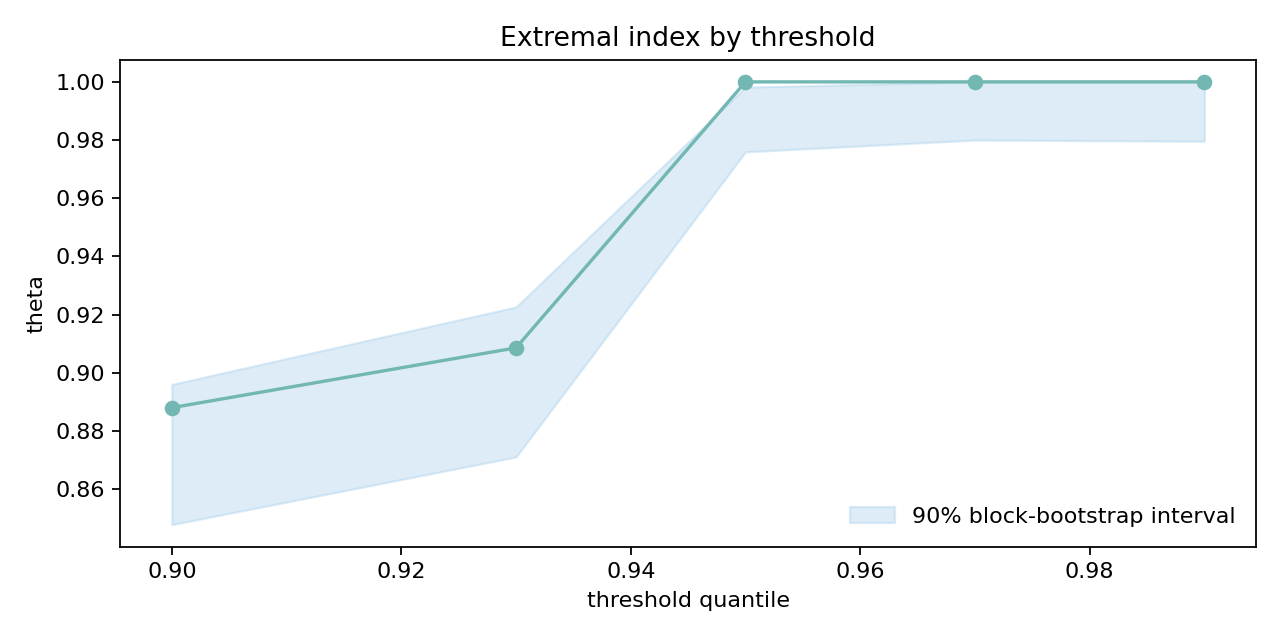
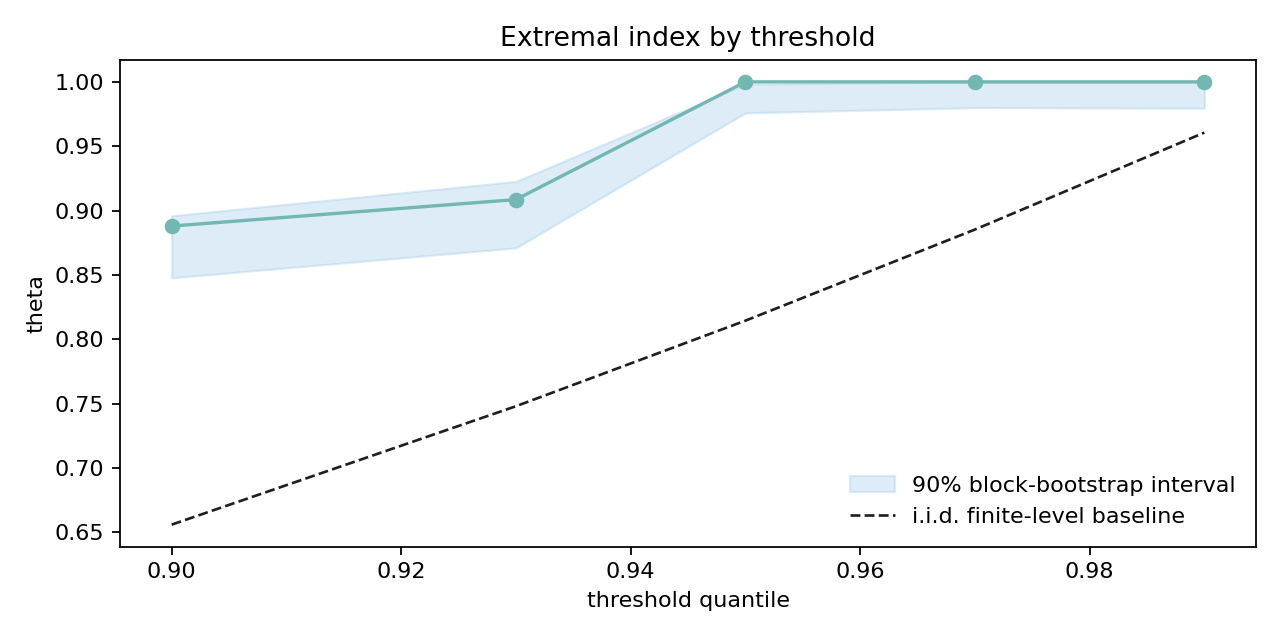
Add independence baselines to recurrence scans

diff --git a/article/arxiv_manuscript.tex b/article/arxiv_manuscript.tex
@@ -204,7 +204,11 @@ Its sample analogue is
 \]
 whenever $\widehat{\theta}_n^{(r)}>0$.
 
-The interpretation is straightforward but worth stating carefully. The exceedance rate $\widehat{p}_n$ records how often the process enters the stress region, while the clustering coefficient $\widehat{\theta}_n^{(r)}$ records how isolated those exceedances are once they occur. Dividing the first quantity by the second therefore leaves incidence unchanged in the benchmark case of no clustering and increases the measured stress load when exceedances arrive in tighter temporal groups. Because $\theta_n^{(r)} \le 1$, the functional always satisfies $\Lambda(u_n,r)\ge p(u_n)$. In that sense, it may be read as a cluster-adjusted stress load: identical event frequencies need not imply identical stress severity if one process concentrates those events into more persistent bursts.
+The interpretation is straightforward but worth stating carefully. The exceedance rate $\widehat{p}_n$ records how often the process enters the stress region, while the clustering coefficient $\widehat{\theta}_n^{(r)}$ records how isolated those exceedances are once they occur. Dividing the first quantity by the second therefore rescales incidence by the inverse isolation probability and increases the measured stress load when exceedances arrive in tighter temporal groups. Because $\theta_n^{(r)} \le 1$, the functional always satisfies $\Lambda(u_n,r)\ge p(u_n)$. At a finite threshold, however, the honest zero-clustering reference is not $p(u_n)$ itself but the independence benchmark
+\[
+\Lambda_{\mathrm{indep}}(u_n,r)=\frac{p(u_n)}{(1-p(u_n))^r},
+\]
+which exceeds $p(u_n)$ whenever $p(u_n)>0$. In that sense, $\Lambda$ may be read as a cluster-adjusted stress load: identical event frequencies need not imply identical stress severity if one process concentrates those events into more persistent bursts.
 
 The simplicity of the definition is intentional. The aim is not to compete with the richer theory of tail processes or extremal dependence structures, but to produce a scalar summary that remains mathematically interpretable while being usable inside an applied stress workflow.
 
@@ -229,18 +233,26 @@ The conclusion follows immediately from the definition $\Lambda(u,r)=p(u)/\theta
 \begin{proposition}[Independent benchmark]
 If exceedances are temporally independent at threshold $u$, then for every $r\ge 1$,
 \[
-\theta^{(r)}(u)=1
+\theta^{(r)}(u)=(1-p(u))^r
 \qquad\text{and}\qquad
-\Lambda(u,r)=p(u).
+\Lambda_{\mathrm{indep}}(u,r)=\frac{p(u)}{(1-p(u))^r}.
+\]
+If $\{u_n\}$ is a high-threshold sequence with $p(u_n)\to 0$, then
+\[
+\theta_n^{(r)}=(1-p(u_n))^r\to 1
+\qquad\text{and}\qquad
+\frac{\Lambda_{\mathrm{indep}}(u_n,r)}{p(u_n)}\to 1.
 \]
 \end{proposition}
 
 \textit{Proof sketch.}
 Under independence,
 \[
-\mathbb{P}\!\left(X_{-1}\le u,\dots,X_{-r}\le u \mid X_0>u\right)=1,
+\mathbb{P}\!\left(X_{-1}\le u,\dots,X_{-r}\le u \mid X_0>u\right)
+=\prod_{j=1}^{r}\mathbb{P}(X_{-j}\le u)
+=(1-p(u))^r,
 \]
-so the finite-level clustering coefficient equals one. The cluster adjustment then disappears. This proposition supplies the correct benchmark: the functional adds information only when temporal dependence in extremes is present.
+so the finite-level clustering coefficient is the probability that the preceding $r$ observations remain below threshold under temporal independence. Substituting this value into the definition of $\Lambda$ gives the finite-level independence benchmark. The asymptotic statement follows because $p(u_n)\to 0$ implies $(1-p(u_n))^r\to 1$. This proposition supplies the correct benchmark: at finite thresholds, zero clustering does not remove the adjustment completely; it anchors it at $\Lambda_{\mathrm{indep}}(u,r)$.
 
 \begin{proposition}[Plug-in consistency]
 Assume:
@@ -365,37 +377,37 @@ This is also the context in which the cluster-adjusted functional acquires subst
 
 Any recurrence-based stress diagnostic inherits two forms of uncertainty at once. The first is ordinary sampling uncertainty: finite samples generate noisy exceedance counts, noisy cluster counts, and therefore noisy clustering summaries. The second is design uncertainty: the reported statistic depends on threshold choice and, for runs-based procedures, on the analyst's declustering rule. For that reason, robustness over a threshold grid is not a cosmetic appendix exercise but part of the object being measured. The repository now makes that point operational by pairing the threshold scan with a moving-block bootstrap band, so that the threshold path is accompanied by a finite-sample uncertainty envelope rather than by point estimates alone.
 
-The repository's threshold-sensitivity artifact makes this point directly. For the benchmark observable used in the threshold scan, the runs-based clustering estimate is $0.888$ at the $0.90$ quantile with $500$ exceedances and rises to $0.909$ at the $0.93$ quantile with $350$ exceedances. By the $0.95$ quantile, the estimate reaches $1.000$ with $250$ exceedances and remains at that level through the $0.97$ and $0.99$ quantiles, even as the number of exceedances falls to $150$ and then $50$. The diagnostic message is clear: raising the threshold reduces the apparent evidence of clustering in this benchmark, but it does so while rapidly thinning the sample on which the estimate rests. Stability at very high thresholds is therefore not self-validating; it may reflect both genuine tail behavior and the loss of finite-sample resolution.
+The repository's threshold-sensitivity artifact makes this point directly. For the logistic benchmark observable used in the threshold scan, the runs-based clustering estimate is $0.888$ at the $0.90$ quantile with $500$ exceedances and rises to $0.909$ at the $0.93$ quantile with $350$ exceedances. By the $0.95$ quantile, the estimate reaches $1.000$ with $250$ exceedances and remains at that level through the $0.97$ and $0.99$ quantiles, even as the number of exceedances falls to $150$ and then $50$. Once the finite-level independence baseline is added, the correct reading becomes more precise. The corresponding i.i.d. benchmark values are $(1-\widehat{p})^4=0.656$, $0.748$, $0.815$, $0.885$, and $0.961$, so the entire path lies above independence rather than below it. In other words, this scan is best read as a null-calibration exercise on a benchmark observable whose upper tail is already close to the finite-level no-clustering reference, not as direct evidence of persistent tail bunching.
 
-This threshold path also clarifies what uncertainty quantification should mean in a completed empirical application. A single point estimate of $\widehat{\theta}_n^{(r)}$ or $\widehat{\Lambda}_n(u_n,r)$ is not enough, because inferential uncertainty and threshold sensitivity interact. The bootstrap-enhanced artifacts generated by the repository are a first step in the right direction: they do not solve the inferential problem, but they do allow the analyst to see whether apparent stability at a given threshold reflects robust clustering evidence or simply the collapse of effective sample size. The same logic now extends to the cluster-adjusted stress functional itself. In the current threshold scan, the estimated functional falls from $0.113$ at the $0.90$ quantile to $0.077$ at $0.93$, then to $0.050$, $0.030$, and $0.010$ at the $0.95$, $0.97$, and $0.99$ quantiles, respectively. The associated $90\%$ block-bootstrap intervals are $[0.111, 0.118]$, $[0.076, 0.080]$, $[0.0498, 0.0512]$, $[0.0298, 0.0306]$, and $[0.0096, 0.0102]$. That decline is informative precisely because it shows how the functional changes character across the grid: once the clustering estimate approaches one at higher thresholds, the cluster-adjusted measure is driven mainly by the shrinking exceedance rate rather than by additional clustering information.
+This threshold path also clarifies what uncertainty quantification should mean in a completed empirical application. A single point estimate of $\widehat{\theta}_n^{(r)}$ or $\widehat{\Lambda}_n(u_n,r)$ is not enough, because inferential uncertainty and threshold sensitivity interact. The bootstrap-enhanced artifacts generated by the repository are a first step in the right direction: they do not solve the inferential problem, but they do allow the analyst to see whether apparent stability at a given threshold reflects robust clustering evidence or simply the collapse of effective sample size. The same logic now extends to the cluster-adjusted stress functional itself. In the current threshold scan, the estimated functional falls from $0.113$ at the $0.90$ quantile to $0.077$ at $0.93$, then to $0.050$, $0.030$, and $0.010$ at the $0.95$, $0.97$, and $0.99$ quantiles, respectively, while the corresponding finite-level independence benchmark falls from $0.152$ to $0.094$, $0.061$, $0.034$, and $0.010$. The associated $90\%$ block-bootstrap intervals are $[0.111, 0.118]$, $[0.076, 0.080]$, $[0.0498, 0.0512]$, $[0.0298, 0.0306]$, and $[0.0096, 0.0102]$. The important point is not merely that $\widehat{\Lambda}$ declines. It is that the decline largely tracks the finite-threshold mechanical benchmark, which is exactly what one should expect from a null-calibration observable with little excess clustering beyond the $(1-\widehat{p})^r$ effect.
 
-\figasset{figures/extremal_index_by_threshold.png}{Threshold sensitivity of the clustering estimate. The figure is useful not because it identifies one ``correct'' cutoff, but because it shows how clustering diagnostics move as the threshold becomes more selective and the effective sample of exceedances shrinks.}
+\figasset{figures/extremal_index_by_threshold.png}{Threshold sensitivity of the clustering estimate. The dashed curve is the finite-level i.i.d. benchmark $(1-\widehat{p})^r$, so the figure shows not only how the estimate moves with the threshold, but also whether it departs materially from the no-clustering reference at each cutoff.}
 
-\figasset{figures/cluster_adjusted_stress_by_threshold.png}{Threshold sensitivity of the cluster-adjusted stress functional. Because the functional combines exceedance incidence with clustering intensity, its uncertainty path is informative even when the extremal-index path alone appears stable.}
+\figasset{figures/cluster_adjusted_stress_by_threshold.png}{Threshold sensitivity of the cluster-adjusted stress functional. The dashed curve is the finite-level independence benchmark $\widehat{p}/(1-\widehat{p})^r$, which is the honest reference for deciding whether the observed path reflects excess clustering or merely the mechanical $(1-\widehat{p})^r$ adjustment.}
 
-Run-length sensitivity provides a second robustness check because the declustering rule is itself part of the stress definition. At the fixed $0.90$ threshold quantile used in the repository's run-length scan, the estimated cluster-adjusted functional equals $0.100$ for run lengths $1$ and $2$, then rises to $0.113$, $0.149$, and $0.206$ for run lengths $4$, $6$, and $8$, respectively. The corresponding $90\%$ block-bootstrap intervals are $[0.0998, 0.1006]$, $[0.1002, 0.1012]$, $[0.1115, 0.1174]$, $[0.1445, 0.1591]$, and $[0.1968, 0.2213]$. The interpretation is conceptually straightforward. As the analyst requires longer quiet spells before declaring a new cluster, more exceedances are absorbed into common episodes, the clustering coefficient falls, and the cluster-adjusted stress load rises. That does not tell us which run length is ``correct.'' It shows that the substantive meaning of persistence depends on the temporal separation rule built into the diagnostic.
+Run-length sensitivity provides a second robustness check because the declustering rule is itself part of the stress definition. At the fixed $0.90$ threshold quantile used in the repository's run-length scan on the same logistic benchmark observable, the estimated cluster-adjusted functional equals $0.100$ for run lengths $1$ and $2$, then rises to $0.113$, $0.149$, and $0.206$ for run lengths $4$, $6$, and $8$, respectively. The corresponding $90\%$ block-bootstrap intervals are $[0.0998, 0.1006]$, $[0.1002, 0.1012]$, $[0.1115, 0.1174]$, $[0.1445, 0.1591]$, and $[0.1968, 0.2213]$. Taken on their own, those numbers might invite a persistence interpretation, but that reading is false. The finite-level independence benchmark at $\widehat{p}=0.10$ is $\widehat{\Lambda}_{\mathrm{indep}}=0.111$, $0.123$, $0.152$, $0.188$, and $0.233$ for $r=1$, $2$, $4$, $6$, and $8$, respectively, so the observed path sits at or below independence throughout. The increase in $\widehat{\Lambda}$ with $r$ is therefore mechanical rather than diagnostic: it occurs under i.i.d. data as well because $(1-\widehat{p})^r$ falls with $r$. The substantive quantity is the gap to the independence reference, not raw monotonicity in the run length.
 
-\figasset{figures/cluster_adjusted_stress_by_run_length.png}{Run-length sensitivity of the cluster-adjusted stress functional at the $0.90$ threshold quantile. Longer declustering windows mechanically produce larger stress loads by treating more exceedances as part of common episodes.}
+\figasset{figures/cluster_adjusted_stress_by_run_length.png}{Run-length sensitivity of the cluster-adjusted stress functional at the $0.90$ threshold quantile. The dashed curve is the finite-level i.i.d. benchmark, so the figure makes clear that raw monotonicity in $r$ carries no persistence information by itself; only departures from the benchmark do.}
 
 \begin{table}[H]
 \centering
 \caption{Compact robustness summary for the cluster-adjusted stress functional}
 \label{tab:lambda_robustness}
 \small
-\begin{tabular}{>{\raggedright\arraybackslash}p{0.18\textwidth} >{\raggedleft\arraybackslash}p{0.12\textwidth} >{\raggedleft\arraybackslash}p{0.16\textwidth} >{\raggedleft\arraybackslash}p{0.22\textwidth}}
+\begin{tabular}{>{\raggedright\arraybackslash}p{0.16\textwidth} >{\raggedleft\arraybackslash}p{0.10\textwidth} >{\raggedleft\arraybackslash}p{0.12\textwidth} >{\raggedleft\arraybackslash}p{0.16\textwidth} >{\raggedleft\arraybackslash}p{0.20\textwidth}}
 \toprule
-Path & Setting & $\widehat{\Lambda}$ & 90\% bootstrap interval \\
+Path & Setting & $\widehat{\Lambda}$ & $\widehat{\Lambda}_{\mathrm{indep}}$ & 90\% bootstrap interval \\
 \midrule
-Threshold & $q=0.90$ & $0.113$ & $[0.111,\,0.118]$ \\
-Threshold & $q=0.93$ & $0.077$ & $[0.076,\,0.080]$ \\
-Threshold & $q=0.95$ & $0.050$ & $[0.0498,\,0.0512]$ \\
-Threshold & $q=0.97$ & $0.030$ & $[0.0298,\,0.0306]$ \\
-Threshold & $q=0.99$ & $0.010$ & $[0.0096,\,0.0102]$ \\
-Run length & $r=1$ & $0.100$ & $[0.0998,\,0.1006]$ \\
-Run length & $r=2$ & $0.100$ & $[0.1002,\,0.1012]$ \\
-Run length & $r=4$ & $0.113$ & $[0.1115,\,0.1174]$ \\
-Run length & $r=6$ & $0.149$ & $[0.1445,\,0.1591]$ \\
-Run length & $r=8$ & $0.206$ & $[0.1968,\,0.2213]$ \\
+Threshold & $q=0.90$ & $0.113$ & $0.152$ & $[0.111,\,0.118]$ \\
+Threshold & $q=0.93$ & $0.077$ & $0.094$ & $[0.076,\,0.080]$ \\
+Threshold & $q=0.95$ & $0.050$ & $0.061$ & $[0.0498,\,0.0512]$ \\
+Threshold & $q=0.97$ & $0.030$ & $0.034$ & $[0.0298,\,0.0306]$ \\
+Threshold & $q=0.99$ & $0.010$ & $0.010$ & $[0.0096,\,0.0102]$ \\
+Run length & $r=1$ & $0.100$ & $0.111$ & $[0.0998,\,0.1006]$ \\
+Run length & $r=2$ & $0.100$ & $0.123$ & $[0.1002,\,0.1012]$ \\
+Run length & $r=4$ & $0.113$ & $0.152$ & $[0.1115,\,0.1174]$ \\
+Run length & $r=6$ & $0.149$ & $0.188$ & $[0.1445,\,0.1591]$ \\
+Run length & $r=8$ & $0.206$ & $0.233$ & $[0.1968,\,0.2213]$ \\
 \bottomrule
 \end{tabular}
 \normalsize

diff --git a/src/dynsys_econometrics/plots.py b/src/dynsys_econometrics/plots.py
@@ -173,6 +173,7 @@ def plot_extremal_index_by_threshold(
     output_path: str | Path,
     lower_bounds: list[float] | None = None,
     upper_bounds: list[float] | None = None,
+    independence_baseline: list[float] | None = None,
 ) -> None:
     """Plot extremal-index estimates against threshold quantiles."""
     if len(quantiles) == 0 or len(quantiles) != len(theta_values):
@@ -183,6 +184,8 @@ def plot_extremal_index_by_threshold(
         raise ValueError("lower_bounds and upper_bounds must both be provided or both be omitted.")
     if lower_bounds is not None and (len(lower_bounds) != len(quantiles) or len(upper_bounds) != len(quantiles)):
         raise ValueError("lower_bounds and upper_bounds must match the length of quantiles.")
+    if independence_baseline is not None and len(independence_baseline) != len(quantiles):
+        raise ValueError("independence_baseline must match the length of quantiles.")
 
     path = _ensure_parent_dir(output_path)
     fig, ax = plt.subplots(figsize=(8, 4))
@@ -196,10 +199,19 @@ def plot_extremal_index_by_threshold(
             label="90% block-bootstrap interval",
         )
     ax.plot(quantiles, theta_values, marker="o", color="#72b7b2")
+    if independence_baseline is not None:
+        ax.plot(
+            quantiles,
+            independence_baseline,
+            linestyle="--",
+            linewidth=1.2,
+            color="#1f1f1f",
+            label="i.i.d. finite-level baseline",
+        )
     ax.set_title("Extremal index by threshold")
     ax.set_xlabel("threshold quantile")
     ax.set_ylabel("theta")
-    if lower_bounds is not None and upper_bounds is not None:
+    if lower_bounds is not None and upper_bounds is not None or independence_baseline is not None:
         ax.legend(frameon=False, loc="lower right")
     fig.tight_layout()
     fig.savefig(path, dpi=160)
@@ -212,6 +224,7 @@ def plot_cluster_adjusted_stress_by_threshold(
     output_path: str | Path,
     lower_bounds: list[float] | None = None,
     upper_bounds: list[float] | None = None,
+    independence_baseline: list[float] | None = None,
 ) -> None:
     """Plot cluster-adjusted stress estimates against threshold quantiles."""
     if len(quantiles) == 0 or len(quantiles) != len(lambda_values):
@@ -222,6 +235,8 @@ def plot_cluster_adjusted_stress_by_threshold(
         raise ValueError("lower_bounds and upper_bounds must both be provided or both be omitted.")
     if lower_bounds is not None and (len(lower_bounds) != len(quantiles) or len(upper_bounds) != len(quantiles)):
         raise ValueError("lower_bounds and upper_bounds must match the length of quantiles.")
+    if independence_baseline is not None and len(independence_baseline) != len(quantiles):
+        raise ValueError("independence_baseline must match the length of quantiles.")
 
     path = _ensure_parent_dir(output_path)
     fig, ax = plt.subplots(figsize=(8, 4))
@@ -235,10 +250,19 @@ def plot_cluster_adjusted_stress_by_threshold(
             label="90% block-bootstrap interval",
         )
     ax.plot(quantiles, lambda_values, marker="o", color="#c45b12")
+    if independence_baseline is not None:
+        ax.plot(
+            quantiles,
+            independence_baseline,
+            linestyle="--",
+            linewidth=1.2,
+            color="#1f1f1f",
+            label="i.i.d. finite-level baseline",
+        )
     ax.set_title("Cluster-adjusted stress by threshold")
     ax.set_xlabel("threshold quantile")
     ax.set_ylabel("lambda")
-    if lower_bounds is not None and upper_bounds is not None:
+    if lower_bounds is not None and upper_bounds is not None or independence_baseline is not None:
         ax.legend(frameon=False, loc="upper right")
     fig.tight_layout()
     fig.savefig(path, dpi=160)
@@ -251,6 +275,7 @@ def plot_cluster_adjusted_stress_by_run_length(
     output_path: str | Path,
     lower_bounds: list[float] | None = None,
     upper_bounds: list[float] | None = None,
+    independence_baseline: list[float] | None = None,
 ) -> None:
     """Plot cluster-adjusted stress estimates against run length."""
     if len(run_lengths) == 0 or len(run_lengths) != len(lambda_values):
@@ -261,6 +286,8 @@ def plot_cluster_adjusted_stress_by_run_length(
         raise ValueError("lower_bounds and upper_bounds must both be provided or both be omitted.")
     if lower_bounds is not None and (len(lower_bounds) != len(run_lengths) or len(upper_bounds) != len(run_lengths)):
         raise ValueError("lower_bounds and upper_bounds must match the length of run_lengths.")
+    if independence_baseline is not None and len(independence_baseline) != len(run_lengths):
+        raise ValueError("independence_baseline must match the length of run_lengths.")
 
     path = _ensure_parent_dir(output_path)
     fig, ax = plt.subplots(figsize=(8, 4))
@@ -274,10 +301,19 @@ def plot_cluster_adjusted_stress_by_run_length(
             label="90% block-bootstrap interval",
         )
     ax.plot(run_lengths, lambda_values, marker="o", color="#8c2d04")
+    if independence_baseline is not None:
+        ax.plot(
+            run_lengths,
+            independence_baseline,
+            linestyle="--",
+            linewidth=1.2,
+            color="#1f1f1f",
+            label="i.i.d. finite-level baseline",
+        )
     ax.set_title("Cluster-adjusted stress by run length")
     ax.set_xlabel("run length")
     ax.set_ylabel("lambda")
-    if lower_bounds is not None and upper_bounds is not None:
+    if lower_bounds is not None and upper_bounds is not None or independence_baseline is not None:
         ax.legend(frameon=False, loc="upper left")
     fig.tight_layout()
     fig.savefig(path, dpi=160)

diff --git a/scripts/generate_article_figures.py b/scripts/generate_article_figures.py
@@ -364,8 +364,18 @@ def main() -> None:
             "threshold": [row.threshold for row in bootstrap_sensitivity],
             "n_exceedances": [row.n_exceedances for row in bootstrap_sensitivity],
             "n_clusters": [row.n_clusters for row in bootstrap_sensitivity],
+            "p_hat": [row.n_exceedances / observable.size for row in bootstrap_sensitivity],
+            "theta_indep": [
+                (1.0 - (row.n_exceedances / observable.size)) ** 4
+                for row in bootstrap_sensitivity
+            ],
             "theta_runs": [row.theta_runs for row in bootstrap_sensitivity],
             "theta_cluster_mean": [row.theta_cluster_mean for row in bootstrap_sensitivity],
+            "lambda_indep": [
+                (row.n_exceedances / observable.size)
+                / ((1.0 - (row.n_exceedances / observable.size)) ** 4)
+                for row in bootstrap_sensitivity
+            ],
             "lambda_runs": [row.lambda_runs for row in bootstrap_sensitivity],
             "theta_runs_ci_lower": [row.theta_runs_ci_lower for row in bootstrap_sensitivity],
             "theta_runs_ci_upper": [row.theta_runs_ci_upper for row in bootstrap_sensitivity],
@@ -380,6 +390,10 @@ def main() -> None:
         theta_values=[row.theta_runs for row in bootstrap_sensitivity],
         lower_bounds=[row.theta_runs_ci_lower for row in bootstrap_sensitivity],
         upper_bounds=[row.theta_runs_ci_upper for row in bootstrap_sensitivity],
+        independence_baseline=[
+            (1.0 - (row.n_exceedances / observable.size)) ** 4
+            for row in bootstrap_sensitivity
+        ],
         output_path=output_dir / "extremal_index_by_threshold.png",
     )
     plot_cluster_adjusted_stress_by_threshold(
@@ -387,6 +401,11 @@ def main() -> None:
         lambda_values=[row.lambda_runs for row in bootstrap_sensitivity],
         lower_bounds=[row.lambda_runs_ci_lower for row in bootstrap_sensitivity],
         upper_bounds=[row.lambda_runs_ci_upper for row in bootstrap_sensitivity],
+        independence_baseline=[
+            (row.n_exceedances / observable.size)
+            / ((1.0 - (row.n_exceedances / observable.size)) ** 4)
+            for row in bootstrap_sensitivity
+        ],
         output_path=output_dir / "cluster_adjusted_stress_by_threshold.png",
     )
     run_length_sensitivity = bootstrap_run_length_sensitivity_analysis(
@@ -405,7 +424,13 @@ def main() -> None:
             "threshold": [row.threshold for row in run_length_sensitivity],
             "n_exceedances": [row.n_exceedances for row in run_length_sensitivity],
             "n_clusters": [row.n_clusters for row in run_length_sensitivity],
+            "p_hat": [row.n_exceedances / observable.size for row in run_length_sensitivity],
             "theta_runs": [row.theta_runs for row in run_length_sensitivity],
+            "lambda_indep": [
+                (row.n_exceedances / observable.size)
+                / ((1.0 - (row.n_exceedances / observable.size)) ** row.run_length)
+                for row in run_length_sensitivity
+            ],
             "lambda_runs": [row.lambda_runs for row in run_length_sensitivity],
             "lambda_runs_ci_lower": [row.lambda_runs_ci_lower for row in run_length_sensitivity],
             "lambda_runs_ci_upper": [row.lambda_runs_ci_upper for row in run_length_sensitivity],
@@ -418,6 +443,11 @@ def main() -> None:
         lambda_values=[row.lambda_runs for row in run_length_sensitivity],
         lower_bounds=[row.lambda_runs_ci_lower for row in run_length_sensitivity],
         upper_bounds=[row.lambda_runs_ci_upper for row in run_length_sensitivity],
+        independence_baseline=[
+            (row.n_exceedances / observable.size)
+            / ((1.0 - (row.n_exceedances / observable.size)) ** row.run_length)
+            for row in run_length_sensitivity
+        ],
         output_path=output_dir / "cluster_adjusted_stress_by_run_length.png",
     )
     extremal_index_table = pd.DataFrame(

diff --git a/article/article_draft.md b/article/article_draft.md
@@ -112,7 +112,7 @@ $$
 
 Interpretation:
 
-The exceedance rate measures how often the process enters the stress region, whereas the clustering coefficient measures how isolated those exceedances are once they occur. Dividing the first object by the second therefore leaves the benchmark case of independence unchanged and raises the stress load precisely when extreme events arrive in tighter temporal groups. The purpose of the functional is not to replace richer theories of tail dependence, but to convert clustering information into a scalar summary that can be compared alongside incidence and volatility measures.
+The exceedance rate measures how often the process enters the stress region, whereas the clustering coefficient measures how isolated those exceedances are once they occur. Dividing the first object by the second therefore rescales incidence by the inverse isolation probability and raises the stress load when extreme events arrive in tighter temporal groups. At a finite threshold, the honest zero-clustering reference is not `p(u)` itself but the independence benchmark `Lambda_indep(u, r) = p(u)/(1-p(u))^r`. The purpose of the functional is not to replace richer theories of tail dependence, but to convert clustering information into a scalar summary that can be compared alongside incidence and volatility measures.
 
 ### Proposition set
 
@@ -120,7 +120,8 @@ The exceedance rate measures how often the process enters the stress region, whe
    - for equal exceedance probability, a process with smaller clustering coefficient has larger cluster-adjusted stress.
 
 2. **Independent benchmark**
-   - if exceedances are temporally independent, then $\theta^{(r)}(u)=1$ and $\Lambda(u,r)=p(u)$.
+   - if exceedances are temporally independent, then $\theta^{(r)}(u)=(1-p(u))^r$ and $\Lambda_{\mathrm{indep}}(u,r)=p(u)/(1-p(u))^r$.
+   - along a high-threshold sequence with $p(u_n)\to 0$, this benchmark converges to the simpler asymptotic reference because $\theta_n^{(r)}\to 1$.
 
 3. **Plug-in consistency**
    - if the exceedance-rate and clustering estimators are consistent and the denominator stays away from zero, then the plug-in functional is consistent.
@@ -176,13 +177,13 @@ Threshold-based recurrence diagnostics carry two uncertainties at once: ordinary
 
 The existing threshold-sensitivity artifact already shows the issue clearly. For the benchmark observable used in the scan, the runs-based clustering estimate is `0.888` at the `0.90` quantile with `500` exceedances, `0.909` at the `0.93` quantile with `350` exceedances, and `1.000` from the `0.95` quantile onward as the exceedance count falls from `250` to `50`. The estimate therefore appears more stable at higher thresholds precisely when the effective sample is shrinking most aggressively.
 
-That pattern gives the uncertainty section its main point. A single clustering estimate is not enough. The updated artifacts are a first implementation step because they show both the threshold path for `theta` and the threshold path for the cluster-adjusted stress functional together with block-bootstrap uncertainty. For the threshold scan, the `Lambda` intervals are `[0.111, 0.118]`, `[0.076, 0.080]`, `[0.0498, 0.0512]`, `[0.0298, 0.0306]`, and `[0.0096, 0.0102]` as the threshold moves from `q=0.90` to `q=0.99`. A more complete applied version would still report run-length sensitivity alongside these intervals, but the core uncertainty treatment is now implemented for the functional itself rather than only for the clustering coefficient.
+That pattern gives the uncertainty section its main point, but only once the honest finite-level benchmark is included. A single clustering estimate is not enough. The updated artifacts now show both the threshold path for `theta` and the threshold path for the cluster-adjusted stress functional together with their i.i.d. references and block-bootstrap uncertainty. For the threshold scan, the `Lambda` path falls from `0.113` to `0.010`, while the corresponding finite-level independence benchmark falls from `0.152` to `0.010`. This is the correct null-calibration reading for the logistic benchmark observable: the path largely tracks the mechanical `(1-p)^r` effect rather than demonstrating excess clustering.
 
 Run-length sensitivity is the next layer of robustness because the declustering rule is itself part of the model of persistence. In the current run-length scan at threshold quantile `0.90`, the cluster-adjusted functional is `0.100` for run lengths `1` and `2`, then rises to `0.113`, `0.149`, and `0.206` for run lengths `4`, `6`, and `8`. The corresponding bootstrap intervals are `[0.0998, 0.1006]`, `[0.1002, 0.1012]`, `[0.1115, 0.1174]`, `[0.1445, 0.1591]`, and `[0.1968, 0.2213]`. The substantive point is that a longer quiet-period requirement mechanically increases the measured stress load by merging more exceedances into common episodes. That is not a flaw in the diagnostic; it is the reason the run-length choice must be reported explicitly.
 
 ### Compact robustness summary
 
-The manuscript now includes a compact robustness table so the main numerical results are visible in one place rather than scattered across figures and running prose. The table reports the threshold-path estimates for `Lambda` at `q=0.90, 0.93, 0.95, 0.97, 0.99` together with their bootstrap intervals, and the run-length-path estimates at `r=1, 2, 4, 6, 8` under fixed threshold quantile `0.90`. The threshold side shows how the functional becomes incidence-dominated as the cutoff rises and `theta` approaches one. The run-length side shows the opposite comparative statics: longer declustering windows raise the stress load because they absorb more exceedances into common episodes.
+The manuscript now includes a compact robustness table so the main numerical results are visible in one place rather than scattered across figures and running prose. The table reports the threshold-path estimates for `Lambda` at `q=0.90, 0.93, 0.95, 0.97, 0.99` together with their finite-level independence references and bootstrap intervals, and the run-length-path estimates at `r=1, 2, 4, 6, 8` under fixed threshold quantile `0.90`. The threshold side shows that the benchmark observable mostly tracks the null reference as the cutoff rises. The run-length side now makes the key correction explicit: raw monotonicity in `r` is mechanically present even under i.i.d. data, so only the gap to `Lambda_indep` can be read as evidence about clustering.
 
 ## Small empirical macro-financial panel
 